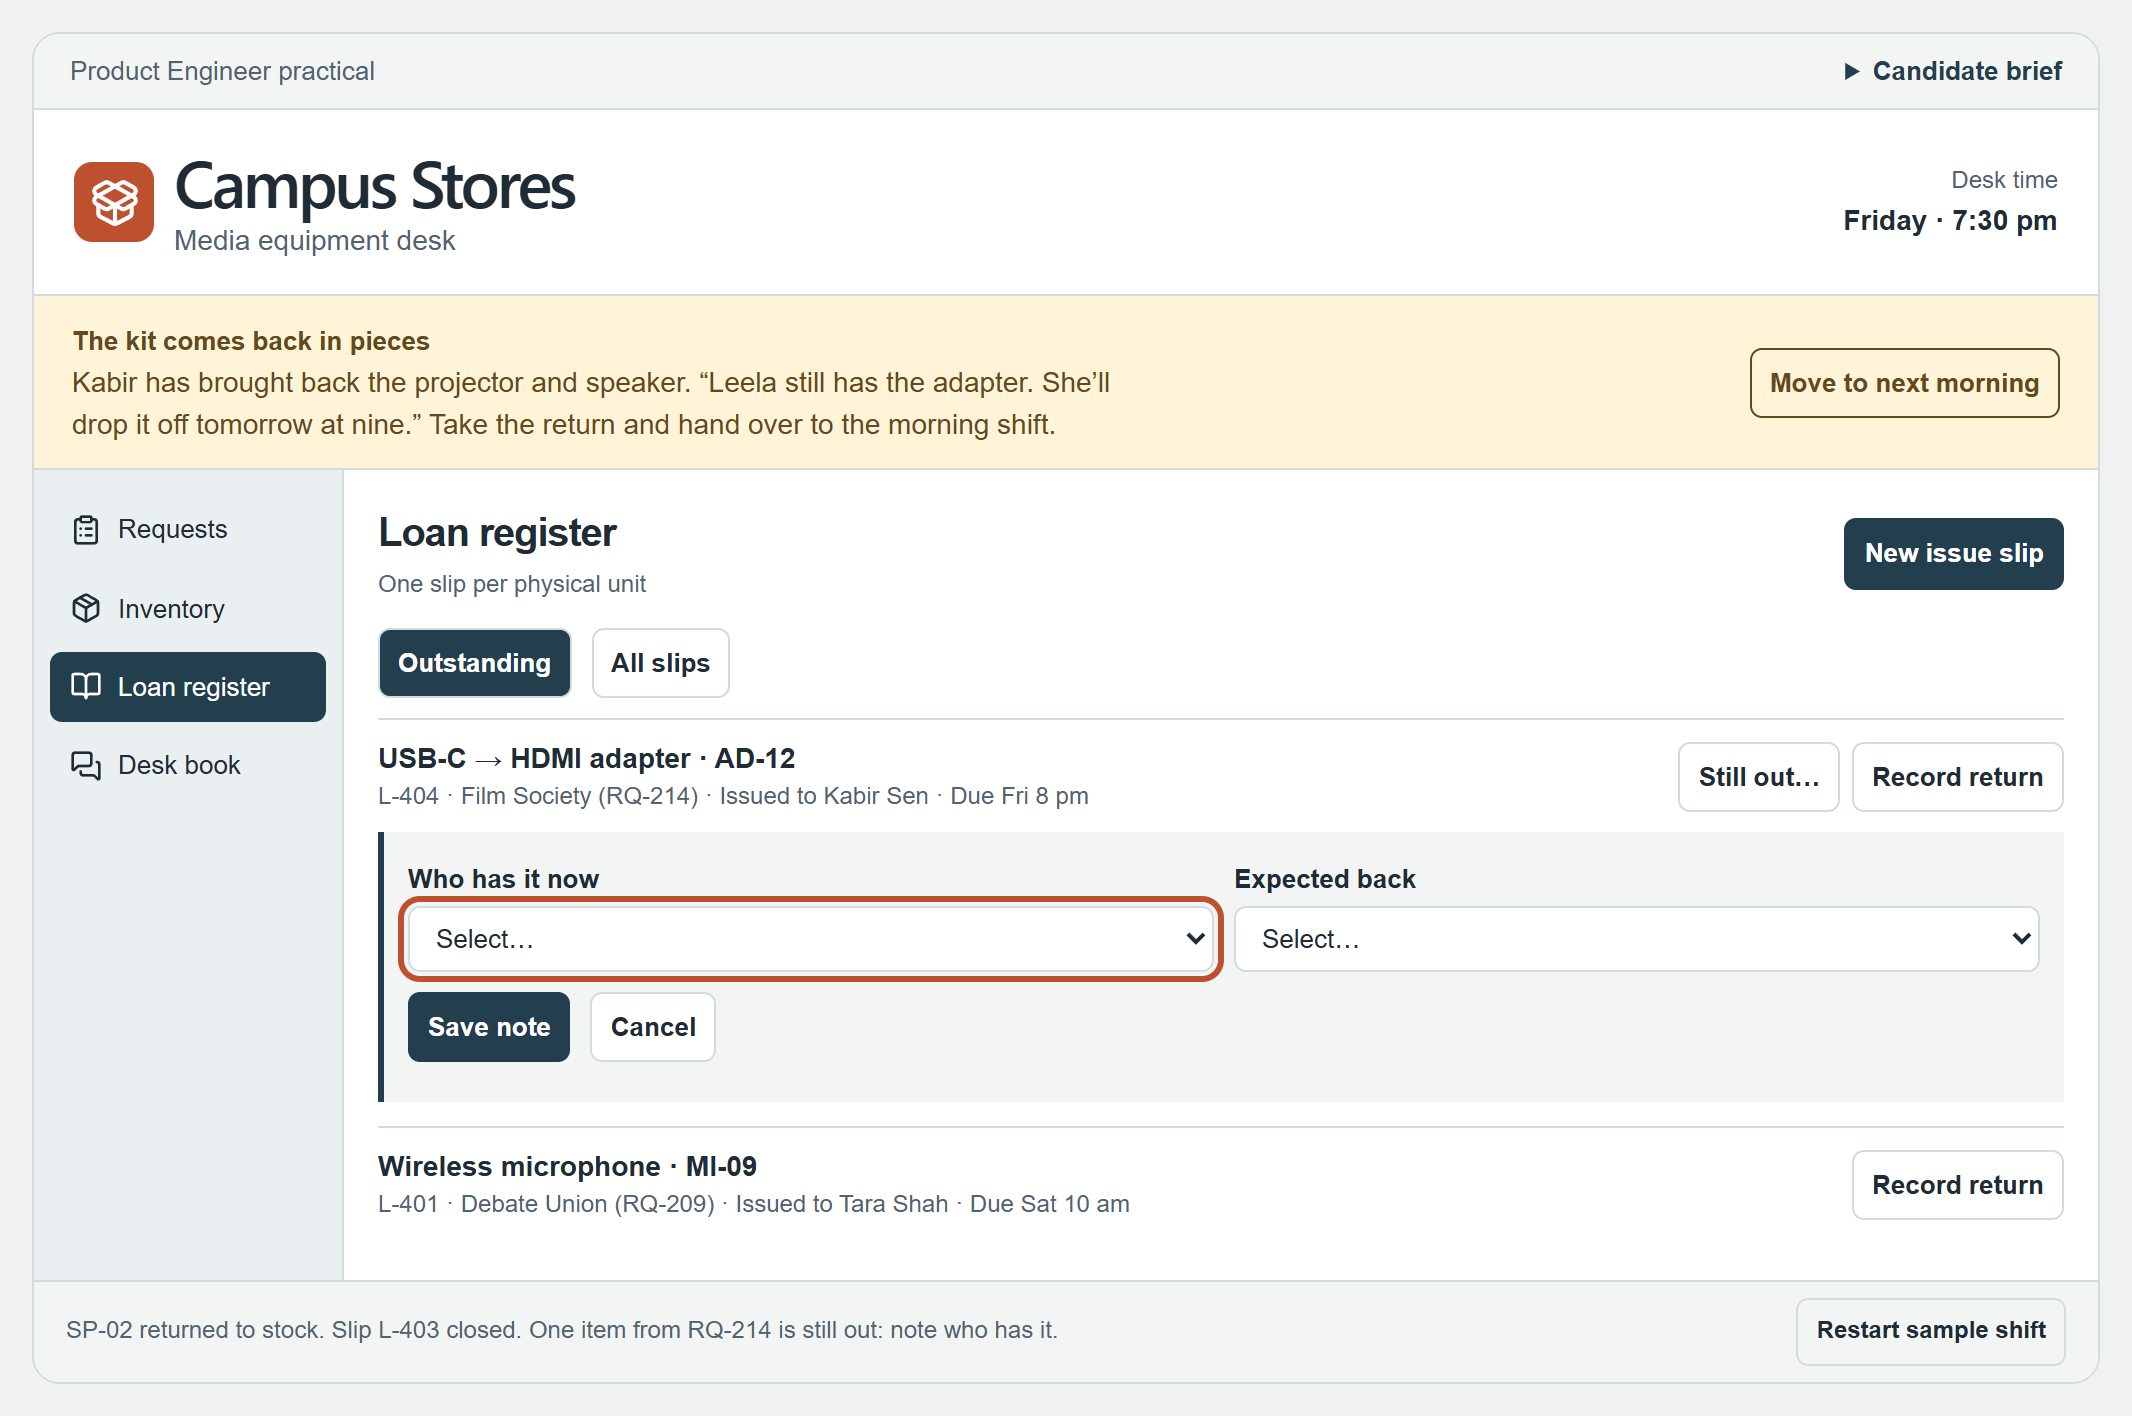
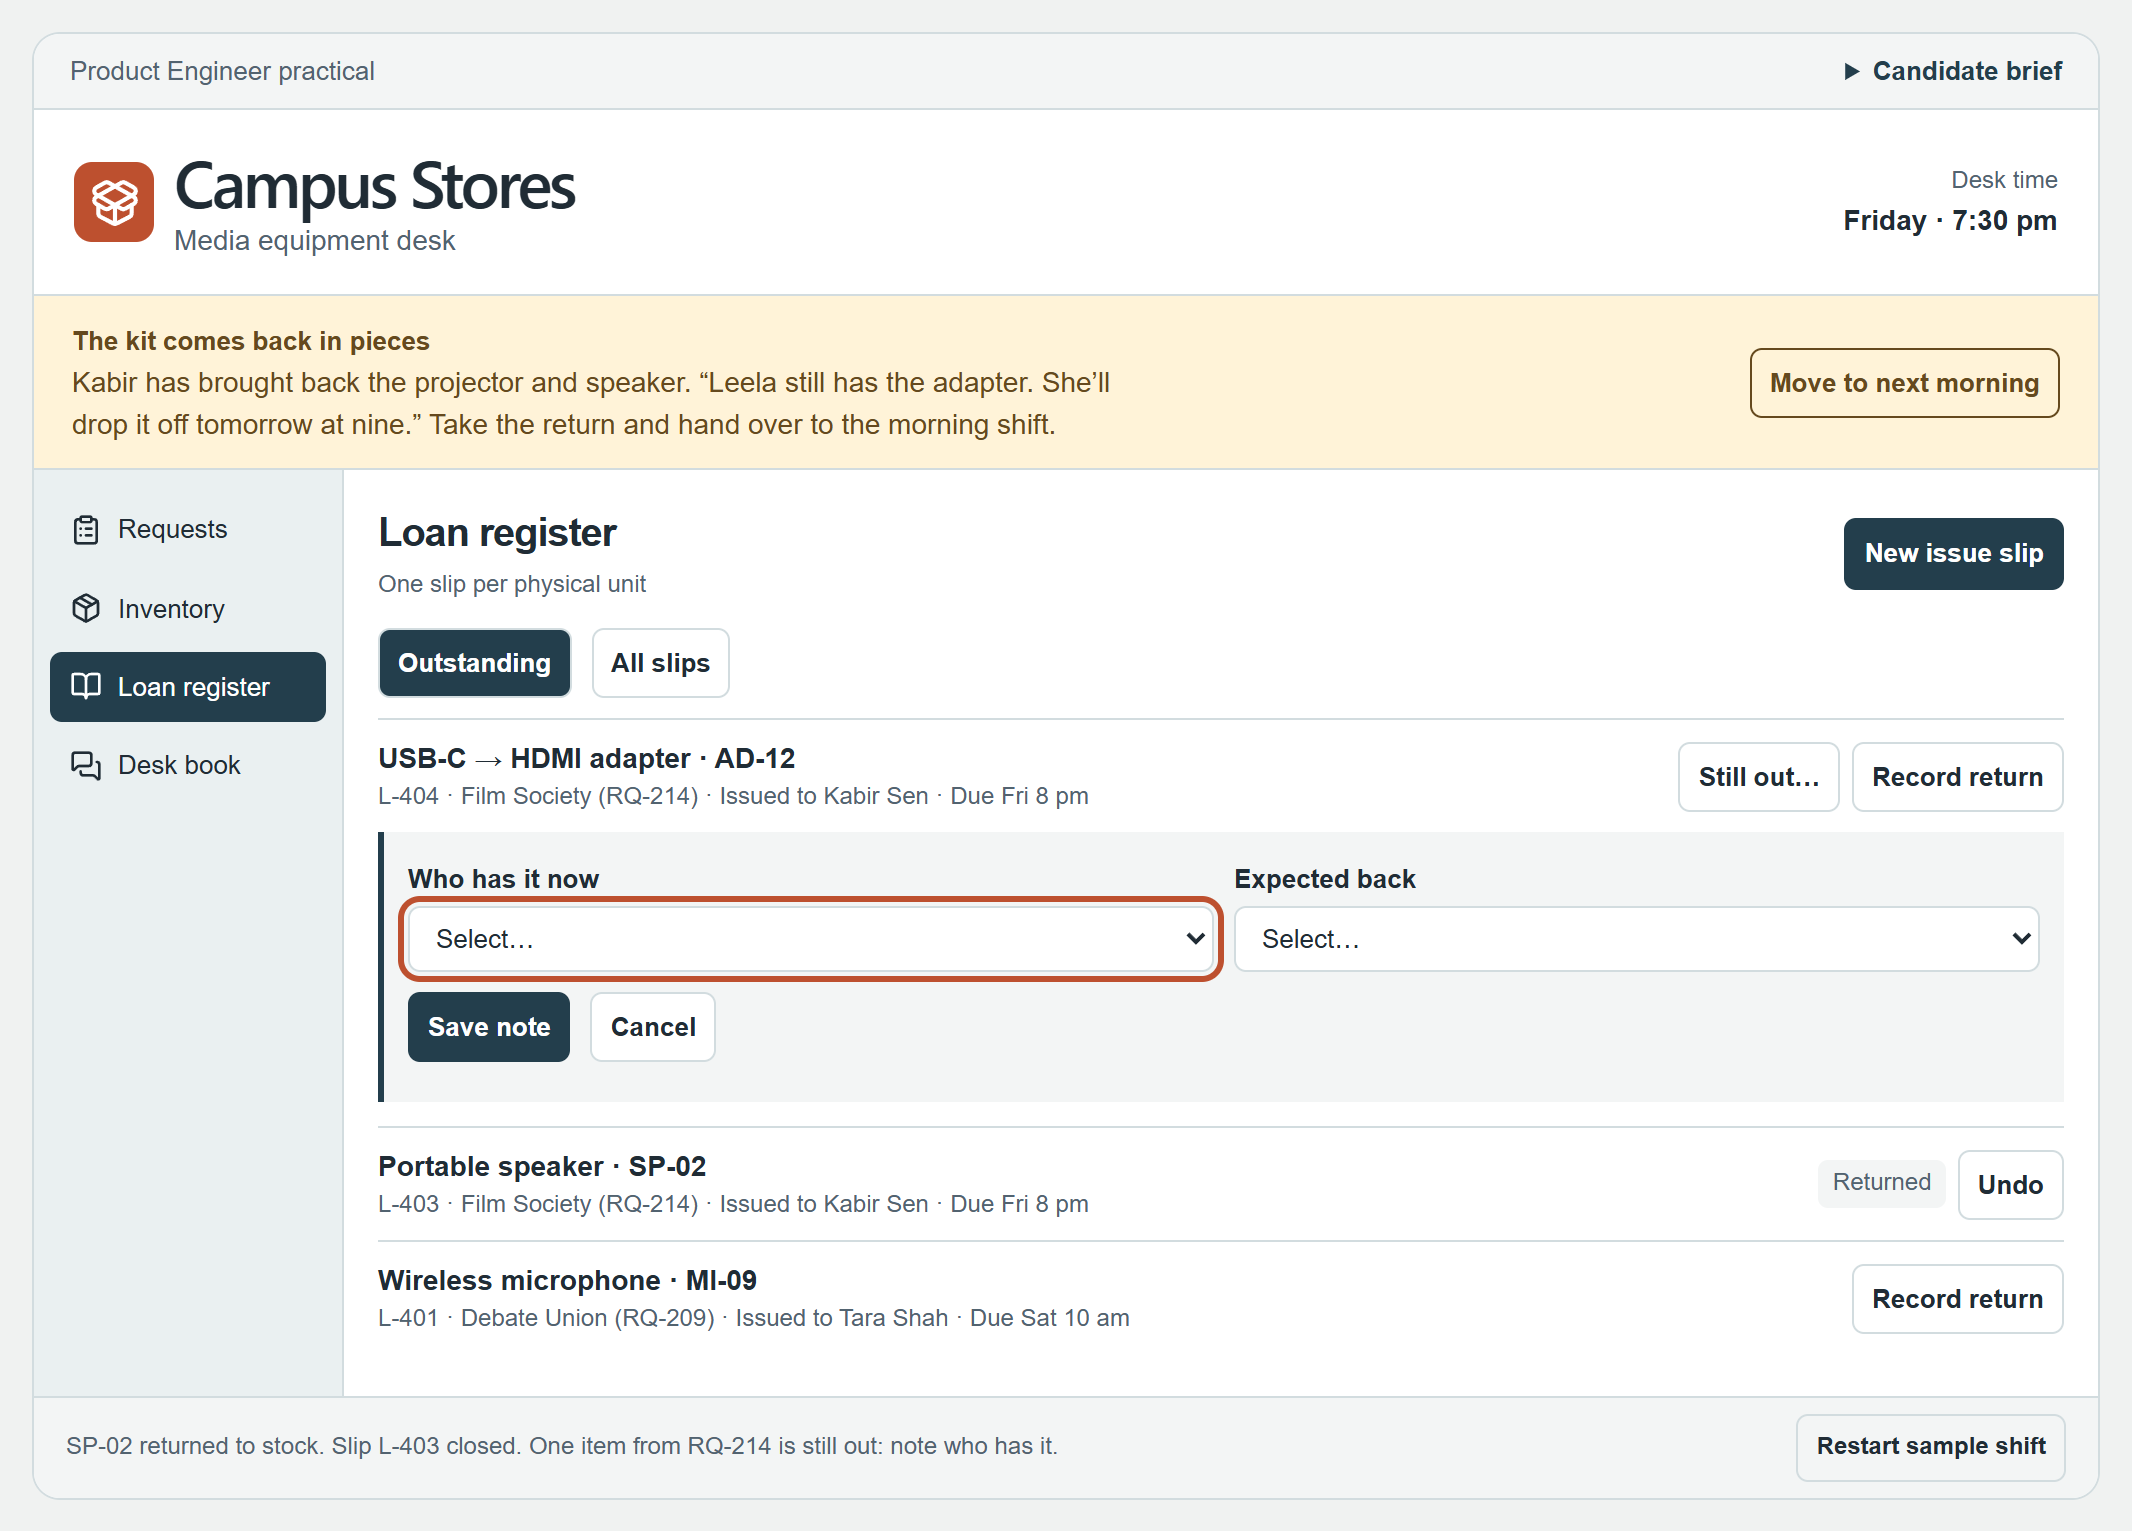
Let the most recent return be undone
A return was one click with no confirmation, and the rows below moved
up afterwards, so a second click in the same place closed a different
slip with no way to reopen it.

The slip just returned now stays in place, marked Returned, with an
Undo button until the next return or a change of page.

The replay gains a check for this (14 in total).

diff --git a/app.js b/app.js
@@ -112,6 +112,7 @@
     notes: [],
     editing: false,
     noting: 0,
+    undo: 0,
     onlyOpen: true,
     notice: "Sample shift · All records are fictional.",
   });
@@ -323,7 +324,9 @@
         .join("") +
       "</div>";
     const shown = s.loans
-      .filter((l) => !s.onlyOpen || !l.back)
+      // The slip just returned stays in place, so the row under the pointer
+      // does not become another slip, and the return can be undone.
+      .filter((l) => !s.onlyOpen || !l.back || l.num === s.undo)
       .slice()
       .reverse();
     if (!shown.length) html += "<p>No outstanding slips.</p>";
@@ -343,7 +346,10 @@
           " · Due " +
           l.due,
         l.back
-          ? badge("Returned")
+          ? badge("Returned") +
+            (l.num === s.undo
+              ? btn("Undo", "undo", String(l.num), "", "Undo return " + name)
+              : "")
           : (late(l) ? '<span class="tag late">Overdue</span>' : "") +
               (canNote(l)
                 ? btn("Still out…", "still", String(l.num), "", "Still out… " + name)
@@ -474,13 +480,26 @@
         break;
       case "advance":
         if (s.phase < 2) s.phase++;
+        s.undo = 0;
         s.notice = "Shift time updated.";
         break;
       case "tab":
         s.tab = v;
         s.editing = false;
         s.noting = 0;
+        s.undo = 0;
         break;
+      case "undo": {
+        const l = s.loans.find((l) => l.num === Number(v));
+        if (!l || !l.back || l.num !== s.undo || out(l.asset)) return;
+        l.back = false;
+        s.undo = 0;
+        s.noting = 0;
+        focusBack = '[data-action="return"][data-val="' + l.num + '"]';
+        s.notice =
+          "Return of " + l.asset + " undone. Slip L-" + l.num + " is open again.";
+        break;
+      }
       case "still":
         s.noting = s.noting === Number(v) ? 0 : Number(v);
         focusNote = s.noting > 0;
@@ -509,6 +528,7 @@
         const l = s.loans.find((l) => l.num === Number(v));
         if (!l || l.back) return;
         l.back = true;
+        s.undo = l.num;
         s.notice = l.asset + " returned to stock. Slip L-" + l.num + " closed.";
         if (s.noting === l.num) s.noting = 0;
         // When one unit from the same request is left out, ask the one
@@ -520,6 +540,8 @@
           s.notice +=
             " One item from " + l.req + " is still out: note who has it.";
         }
+        if (!focusNote)
+          focusBack = '[data-action="undo"][data-val="' + l.num + '"]';
         break;
       }
     }
@@ -587,6 +609,7 @@
     }
     const num = Math.max(...s.loans.map((l) => l.num)) + 1;
     s.loans.push({ num, req, asset, who, due, back: false });
+    s.undo = 0;
     s.editing = false;
     commit("Issued " + asset + " to " + who + " on slip L-" + num + ".");
   });
@@ -621,6 +644,7 @@
       notes: d.notes.map((n) => ({ ...n })),
     };
     if (!s.loans.some((l) => l.num === s.noting && !l.back)) s.noting = 0;
+    if (!s.loans.some((l) => l.num === s.undo && l.back)) s.undo = 0;
     paint();
   }
   paint();

diff --git a/README.md b/README.md
@@ -7,7 +7,8 @@ Fork of [virinchi-healthcare/campus-stores](https://github.com/virinchi-healthca
 - I would keep this product. Its core record, one slip per physical unit, is right, and the problem I found was small to fix.
 - It handles a partial return well. When two of three items came back, I closed two slips and the third stayed open.
 - It has no way to record why a slip is still open. I added one: an open slip can now show who has the item and when it is expected back.
-- The change is in [`app.js`](app.js) (search for `still`), about 140 lines, with a few rules in [`styles.css`](styles.css).
+- I also added **Undo** for the most recent return, because a mistaken click could not be reversed.
+- The change is in [`app.js`](app.js) (search for `still` and `undo`), about 160 lines, with a few rules in [`styles.css`](styles.css).
 
 The register on Saturday morning, when Leela brings back the adapter:
 
@@ -79,6 +80,14 @@ The change does not extend the loan or approve a late return. It records what th
 
 Due times are compared using a fixed table for this sample shift. A real version would store timestamps.
 
+### A second, smaller change: undoing a return
+
+In the original, **Record return** is one click with no confirmation. The row then disappears and the rows below move up, so a second click in the same place closes a different slip, with no way to reopen it. I closed the Debate Union's microphone slip this way while testing, and Inventory then showed the microphone as on the shelf.
+
+Now the slip just returned stays where it was, marked **Returned**, with an **Undo** button until the next return or a change of page.
+
+The brief asks for one change and this is a second. I added it because a wrong return leaves the record wrong without anyone noticing, which is the same kind of failure as the first change addresses.
+
 ### The same shift with the change
 
 Pickup on Friday 3:45 pm is unchanged.
@@ -112,10 +121,10 @@ The change has helped if the person on shift closes the correct slip without ope
 
 ## Known issues I did not change
 
-The brief asks for one change, so these are unchanged from the original:
+These are unchanged from the original:
 
 - Issuing three items takes 18 clicks and selections, because the form is filled in once per item.
-- A return cannot be undone. It is a single click with no confirmation, and the remaining rows move up, so a second click in the same place acts on a different slip. I would fix this next.
+- Only the most recent return can be undone. Older returns still cannot be reopened.
 - Nothing checks that the item handed over is the unit on the slip. Each row shows the unit's tag, such as AD-12, so the person at the desk can match it against the item, but two adapters share a bin and the app accepts the click either way.
 - The issue form does not check the collector or the return time against the request.
 - Validation messages appear only in the footer.
@@ -136,7 +145,7 @@ python3 -m http.server 8000 --bind 127.0.0.1
 node tests/walkthrough.mjs
 ```
 
-This replays the three-step shift in headless Chrome and runs 13 checks against the page. It requires Node 22 or newer and Chrome or Edge, with no other dependencies.
+This replays the three-step shift in headless Chrome and runs 14 checks against the page. It requires Node 22 or newer and Chrome or Edge, with no other dependencies.
 
 ## Licence notices
 
